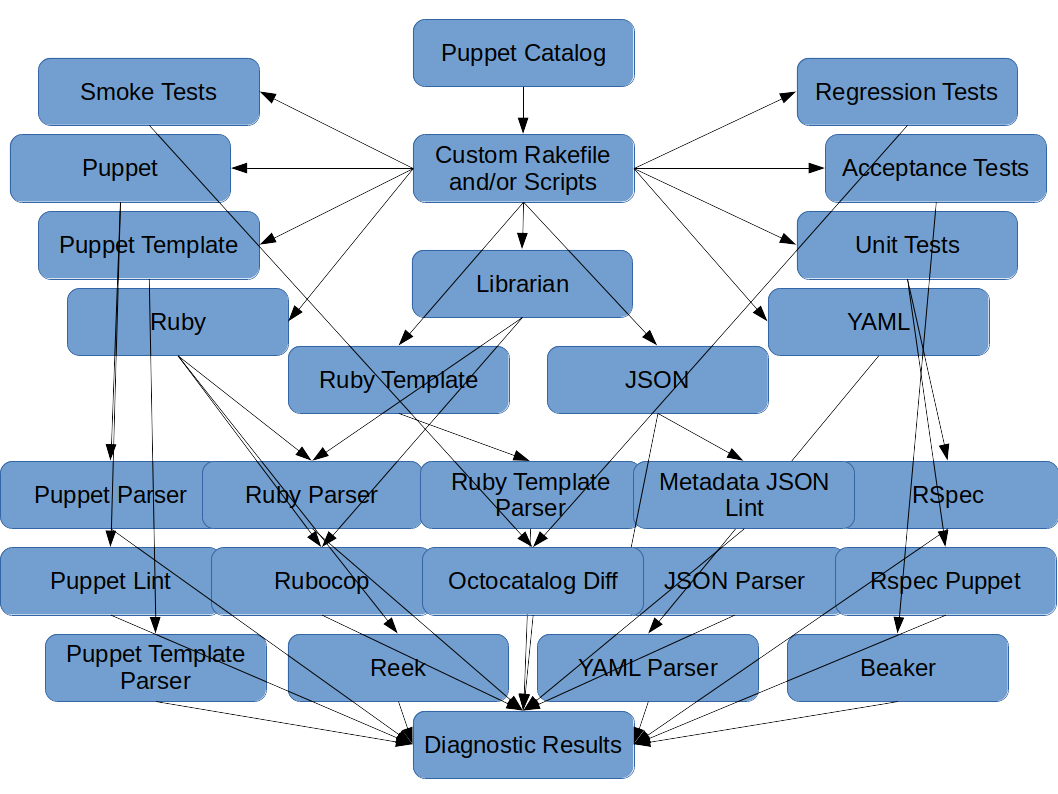
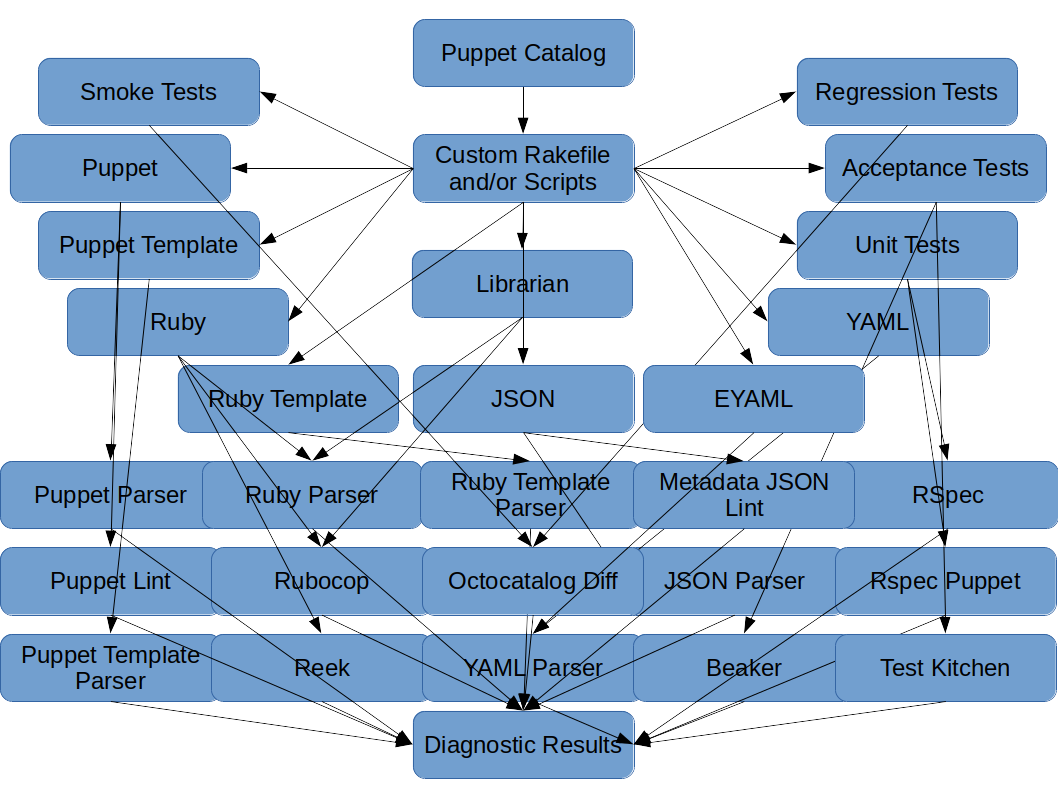
preparing v1.5.0 release

diff --git a/spec/system/system_spec.rb b/spec/system/system_spec.rb
@@ -26,7 +26,7 @@ describe PuppetCheck do
         expect(PuppetCheck.settings[:warning_files].length).to eql(9)
         expect(PuppetCheck.settings[:clean_files].length).to eql(11)
       end
-      expect(PuppetCheck.settings[:ignored_files].length).to eql(3)
+      expect(PuppetCheck.settings[:ignored_files].length).to eql(6)
 
       expect(cli).to eql(2)
     end
@@ -57,7 +57,7 @@ describe PuppetCheck do
       expect(PuppetCheck.settings[:error_files].length).to eql(8)
       expect(PuppetCheck.settings[:warning_files].length).to eql(9)
       expect(PuppetCheck.settings[:clean_files].length).to eql(11)
-      expect(PuppetCheck.settings[:ignored_files].length).to eql(3)
+      expect(PuppetCheck.settings[:ignored_files].length).to eql(6)
     end
   end
 end

diff --git a/lib/puppet-check/cli.rb b/lib/puppet-check/cli.rb
@@ -24,7 +24,7 @@ class PuppetCheck::CLI
 
       # base options
       opts.on('--version', 'Display the current version.') do
-        puts 'puppet-check 1.4.1'
+        puts 'puppet-check 1.5.0'
         exit 0
       end
 

diff --git a/README.md b/README.md
@@ -15,6 +15,10 @@
 ## Description
 Puppet Check is a gem that provides a comprehensive, streamlined, and efficient analysis of the syntax, style, and validity of your entire Puppet code and data.
 
+**IMPORTANT**: The current support for encrypted yaml validation is experimental. The code is blocked in the current release (the files will continue to be treated as unrecognized) and will be unblocked when the feature is finished in a future version.
+
+Also, when most Ruby gems (both third party and standard) dropped support for 1.9.3, it became difficult for users to use Puppet Check with 1.9.3, and support for it was eventually dropped. This is now occurring again for 2.0.0 as few gems are supporting it anymore, and support for 2.0.0 will be discontinued in Puppet Check 1.6.0.
+
 ### Former Method for Code and Data Checks
 ![Old](https://raw.githubusercontent.com/mschuchard/puppet-check/master/images/puppetcheck_old.png)
 
@@ -129,15 +133,17 @@ The following files have unrecognized formats and therefore were not processed:
 - Puppetlabs Spec Helper requires an additional config file for RSpec Puppet support.
 - Puppetlabs Spec Helper does not update external module dependencies in a stateful/persistent workspace and fails gracefully instead.
 - Puppetlabs Spec Helper requires extra configuration items to setup self-module RSpec testing.
-- Puppetlabs Spec Helper does not frontend to Octocatalog Diff.
+- Puppetlabs Spec Helper does not frontend to Octocatalog Diff or Test-Kitchen.
 
 It is worth nothing that there is no current development objective for Puppet Check to achieve the same advanced level of robustness for spec testing that Puppetlabs Spec Helper enables. If you are performing standard spec testing on your Puppet code and data, then Puppet Check's spec testing is a fantastic lighter and faster alternative to Puppetlabs Spec Helper. If you require advanced and intricate capabilities in your spec testing (e.g. direct interfacing to the `Puppet::Parser::Scope` API), then you will likely prefer Puppetlabs Spec Helper's spec testing in conjunction with Puppet Check's file validation.
 
 ## Usage
 Puppet Check requires `ruby >= 2.0.0`, `puppet >= 3.4`, and `puppet-lint >= 1.1.0`. `Octocatalog-diff >= 1.0.0` if you are performing smoke/regression checks. All other dependencies should be fine with various versions. Puppet Check can be used with a CLI, Rake tasks, or API, from your system, rbenv, rvm, Docker, or Vagrant. Please note all interfaces (API by default, but can be modified) will ignore any directories named `fixtures` or specified paths with that directory during file checks and spec tests.
 
-#### Ruby 2.0 and Reek
+#### Ruby 2.0 and Reek/Rubocop
 Reek dropped support for Ruby 2.0 when it went to 4.0. Since dependencies by Ruby version are allowed in Gemfiles but not gemspecs, this means that PuppetCheck installed with `bundler` will automatically pick up the correct version of Reek for your Ruby version and install it. If you are installing PuppetCheck via `gem`, then you can install reek normally with `gem` with Ruby >= 2.1, but you will need to specify `gem install reek -v 3.11` if you are using Ruby 2.0.
+
+Similarly, RuboCop has dropped support for Ruby 2.0 at 0.51.0. Since this is a recent change, the expectation will be to automatically manage this dependency outside of Puppet Check. Only new installations on 2.0 will be affected by this.
 
 ### CLI
 ```
@@ -148,6 +154,8 @@ usage: puppet-check [options] paths
     -s, --style                      Enable style checks
         --smoke                      Enable smoke testing
     -r, --regression                 Enable regression testing (in progress, do not use)
+        --public cert.pem            Public key for EYAML checks
+        --private cert.pem           Private key for EYAML checks
     -o, --output format              Format for results output (default is text): text, json, or yaml
         --octoconfig config_file     Octocatalog-diff configuration file to use
     -n node1.example.com,node2.example.com,
@@ -173,17 +181,21 @@ rake puppetcheck           # Execute all Puppet-Check checks
 rake puppetcheck:file      # Execute Puppet-Check file checks
 rake puppetcheck:spec      # Execute RSpec and RSpec-Puppet tests
 rake puppetcheck:beaker    # Execute Beaker acceptance tests
+rake puppetcheck:kitchen:* # Execute Test Kitchen acceptance tests
 ```
 
 #### puppetcheck:file
 You can add style, smoke, and regression checks to and select the future parser for the `rake puppetcheck:file`, or change the output format, by adding the following after the require:
 
 ```ruby
+# example of modifying Puppet Check behavior
 PuppetCheck.settings[:style_check] = true
 PuppetCheck.settings[:fail_on_warnings] = true
 PuppetCheck.settings[:future_parser] = true
 PuppetCheck.settings[:smoke_check] = true
 PuppetCheck.settings[:regression_check] = true # in progress, do not use
+PuppetCheck.settings[:public] = 'public.pem'
+PuppetCheck.settings[:private] = 'private.pem'
 PuppetCheck.settings[:output_format] = 'yaml'
 PuppetCheck.settings[:octoconfig] = '.octocatalog-diff.cfg.rb'
 PuppetCheck.settings[:octonodes] = %w(localhost.localdomain)
@@ -265,6 +277,8 @@ PuppetCheck.settings[:fail_on_warnings] = true # default false
 PuppetCheck.settings[:style_check] = true # default false
 PuppetCheck.settings[:smoke_check] = true # default false
 PuppetCheck.settings[:regression_check] = true # in progress, do not use; default false
+PuppetCheck.settings[:public] = 'public.pem' # default nil
+PuppetCheck.settings[:private] = 'private.pem' # default nil
 PuppetCheck.settings[:output_format] = 'yaml' # also 'json'; default 'text'
 PuppetCheck.settings[:octoconfig] = '$HOME/octocatalog-diff.cfg.rb' # default '.octocatalog-diff.cfg.rb'
 PuppetCheck.settings[:octonodes] = %w(server.example.com) # default: %w(localhost.localdomain)
@@ -295,7 +309,7 @@ RUN gem install --no-document puppet-check reek rspec-puppet rake
 ENV LANG en_US.UTF-8
 # create the directory for your module, directory environment, etc. and change directory into it
 WORKDIR /module_name_or_directory_environment_name
-# copy the module, directory environment, etc. contents into the module directory inside the container
+# copy the module, directory environment, etc. contents into the corresponding directory inside the container
 COPY / .
 # execute your tests; in this example we are executing the full suite of tests
 ENTRYPOINT ["rake", "puppetcheck"]
@@ -335,13 +349,15 @@ To overcome the lack of convenient portability, you could try spinning up the Va
 - 2: PuppetCheck exited with one or more errors in your code and data. Alternatively, PuppetCheck exited with one or more warnings in your code and data and you specified to fail on warnings.
 
 ### Optional dependencies
-- **rake**: install this if you want to use Puppet Check with `rake` tasks in addition to the CLI.
-- **rspec**: install this if you want to use Puppet Check to execute the spec tests for your Ruby files during `rake`.
-- **rspec-puppet**: install this if you want to use Puppet Check to execute the spec tests for your Puppet files during `rake`.
-- **octocatalog-diff**: install this if you want to use Puppet Check to execute smoke or regression tests for your Puppet catalog.
-- **beaker**: install this if you want to use Puppet Check to execute the acceptance tests during `rake`.
-- **git**: install this if you want to use Puppet Check to download external module dependencies with `git` commands during RSpec Puppet testing.
-- **mercurial**: install this if you want to use Puppet Check to download external module dependencies with `hg` commands during RSpec Puppet testing.
+- **rake** (gem): install this if you want to use Puppet Check with `rake` tasks in addition to the CLI.
+- **rspec** (gem): install this if you want to use Puppet Check to execute the spec tests for your Ruby files during `rake`.
+- **rspec-puppet** (gem): install this if you want to use Puppet Check to execute the spec tests for your Puppet files during `rake`.
+- **octocatalog-diff** (gem): install this if you want to use Puppet Check to execute smoke or regression tests for your Puppet catalog.
+- **beaker** (gem): install this if you want to use Puppet Check to execute the Beaker acceptance tests during `rake`.
+- **test-kitchen** (gem): install this if you want to use Puppet Check to execute the Test Kitchen acceptance tests during `rake`.
+- **openssl** (gem/pkg): install this if you want to use Puppet Check to execute checks on EYAML (note: requires `Ruby => 2.3`).
+- **git** (pkg): install this if you want to use Puppet Check to download external module dependencies with `git` commands during RSpec Puppet testing.
+- **mercurial** (pkg): install this if you want to use Puppet Check to download external module dependencies with `hg` commands during RSpec Puppet testing.
 
 ## Contributing
 Code should pass all spec tests. New features should involve new spec tests. Adherence to Rubocop and Reek is expected where not overly onerous or where the check is of dubious cost/benefit.

diff --git a/CHANGELOG.md b/CHANGELOG.md
@@ -1,23 +1,12 @@
-### 1.5.0 (Roadmap)
+### 1.5.0
 - Maximum Puppet version increased from 5 to 6.
-- Added capability to check EYAML.
+- Added capability to check EYAML (experimental).
 - Test Kitchen frontend interface.
 - Updated Puppet error output for Puppet 5 differences.
 - Slight optimization for smaller test sets.
 - Suppress constant redefinition warnings from Octocatalog-diff's Puppet code reuse.
-- eyaml validation (finish code, fix failing tests) (patch)
-- add test kitchen cli frontend
-- optional octocatalog-diff regression testing (minor)
-- optional octocatalog-diff regression testing options (patch)
-- improved json and yaml output formats support (file arrays become file hashes and output results further handles formatting) (minor; this would be a big refactoring effort)
-- resolve deps in module fixtures? (minor)
-- parallel spec option (minor)
-- multiple node testing with octocatalog-diff (minor)
-- split syntax and style checks to separate methods for style (patch)
-- optional forking? (minor)
-- missing puppet binary error changed
-- try closing the template to deal with the erb binding issue (same nullify warnings issue as binding)
-- refactor bin --> run --> cli --> settings hash returned to run
+- Changed FileName cop to reflect change in RuboCop >= 0.5.
+- Entire module is now symlinked into `spec/fixtures/modules` during rspec-puppet testing (formerly specific components).
 
 ### 1.4.1
 - Support for using SVN to download external module dependencies for RSpec Puppet.
